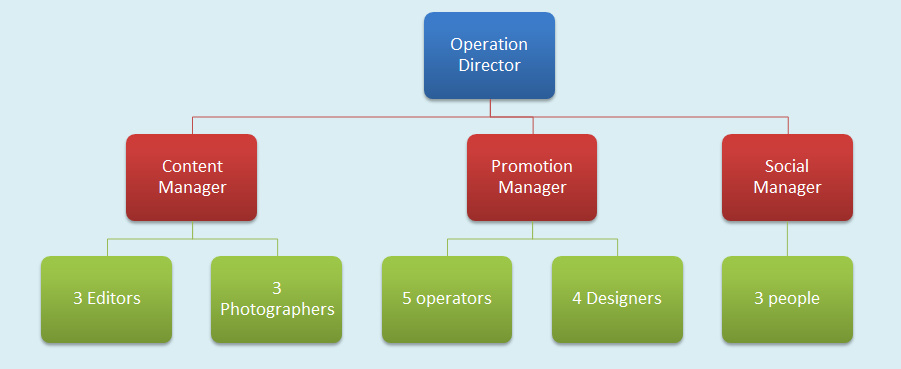
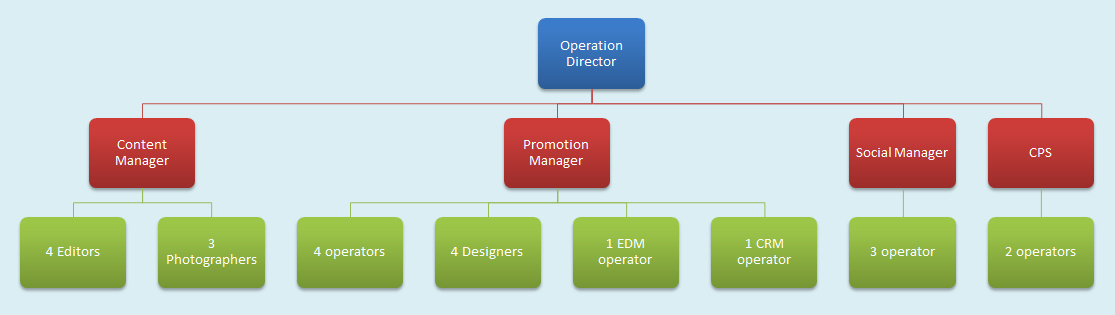
第一版2013计划完成

Changed region(s): [[0.0622, 0.0286, 0.9945, 0.6571], [0.0, 0.6857, 0.9945, 0.9429]]

diff --git a/introduction/suggestion.html b/introduction/suggestion.html
@@ -7,7 +7,7 @@
     <meta charset="utf-8">
     <meta http-equiv="X-UA-Compatible" content="IE=edge,chrome=1">
 
-    <title>建议</title>
+    <title>Suggestion</title>
 
     <meta name="description" content="A jQuery library for modern HTML presentations">
     <meta name="author" content="Caleb Troughton">
@@ -35,11 +35,13 @@
 
 <!-- Begin slides -->
 <section class="slide" id="title-slide">
-    <h1>产品开发和运营方向</h1>
+    <h2>产品开发和运营方向</h2>
+    <h2>Product development & Opearation</h2>
 </section>
 
+
 <section class="slide" id="t1">
-    <h2>One pic from 1haodian</h2>
+    <h2>One pic from 1haodian.com</h2>
     <ul>
         <li>
             <h3>B2C Bussness Sections</h3>
@@ -48,19 +50,20 @@
     </ul>
 </section>
 
+
 <section class="slide" id="t2">
     <h2>Which part is easy to do?</h2>
 
     <ul>
-        <li class="slide" id="extensions-goto">
+        <li class="slide" id="extensionsgoto">
             <strong>Delivery & Storage</strong>: Hardest! &nbsp;&nbsp; Need lots of money, people and time to build.
         </li>
 
-        <li class="slide" id="extensions-hash">
+        <li class="slide" id="extensionshash">
             <strong>Supply & Procurement</strong>: Hard! &nbsp;&nbsp; Depand on our sales volume.
         </li>
 
-        <li class="slide" id="extensions-menu">
+        <li class="slide" id="extensionsmenu">
             <strong>IT & System</strong>: Normal! &nbsp;&nbsp; Need Good people and time.
         </li>
 
@@ -70,22 +73,41 @@
     </ul>
 </section>
 
-<section class="slide" id="elements-blockquotes">
+
+<section class="slide" id="OperationPlan">
+    <h2>Operation Plan</h2>
+    <p><img src="op.jpg"></p>
+
+    <h2>People organization</h2>
+    <p><img src="op2.jpg"></p>
+</section>
+
+<section class="slide" id="OperationPlan2">
+    <h2>Now Operation Is the quick way to improve our compamy</h2>
+
+    <h2>Operation need more people, that is the way taobao does success.</h2>
+
+    <h2>But operation is not the key competitiveness, because easy to copy.</h2>
+
+</section>
+
+
+<section class="slide" id="t5">
     <h2>Why IT & System is the core ? </h2>
     <blockquote cite="http://news.xinhuanet.com/newmedia/2006-08/22/content_4991822.htm">
         <p>在现实世界的商店最有力的武器就是地段，地段，地段；而对于网上经营来说最重要的是技术，技术，技术。</p>
-        <p><cite>亚马逊掌门人杰夫·贝佐斯 Jeff Bezos</cite></p>
+        <p><cite>亚马逊掌门人杰夫·贝佐斯 Amazon CEO: Jeff Bezos</cite></p>
     </blockquote>
 
 </section>
 
 
-<section class="slide" id="t4">
+<section class="slide" id="t6">
     <h2>Why IT & System is executable ? </h2>
 
     <ul>
         <li class="slide" id="extensions-goto">
-            <strong>Cost:</strong>  Only people.
+            <strong>Cost:</strong>  Only people and NOT need much.
         </li>
 
         <li class="slide" id="extensions-hash">
@@ -96,56 +118,102 @@
             Operation can be improved fast, So do our competitors. <strong>But IT System is hard to copy.</strong>
         </li>
 
+        <li class="slide" id="extensions-summary">
+           <strong>Build a software company in China is really lucrative business.</strong>
+        </li>
+
+        <li class="slide" id="extensions-summaryadd">
+            <strong>And IT is not just a support department, it also can be earn money in the future.</strong>
+        </li>
+
     </ul>
 </section>
 
-<section class="slide" id="themes">
-    <h2>Operation Plan</h2>
-    <p><img src="op.jpg"></p>
 
-    <h2>People organization</h2>
-    <p><img src="op2.jpg"></p>
+<section class="slide" id="ProductPlan">
+    <h2>Product Plan - Foundation</h2>
+    <p><img src="productplan1.jpg"></p>
+
+    <h2>Product Plan - Application</h2>
+    <p><img src="productplan2.jpg"></p>
+</section>
+
+<section class="slide" id="ProductPlanPeople">
+    <h2>Product Plan People organization</h2>
+    <p><img src="productplan3.jpg"></p>
+
+</section>
+
+<section class="slide" id="ProductPlanFocus">
+    <h2>Product Plan 2013 Focus</h2>
+    <p><img src="productplanfocus.jpg"></p>
+
+</section>
+
+<section class="slide" id="OperationCost">
+    <h2>Operation Team Cost per Year</h2>
+    <pre><code>&lt;&lt; Need Person : &quot;27&quot; <br/ >Total Cost : &quot;27 * 6000RMB * 12Month = 1,944,000&quot; &gt;&gt;</code></pre>
+
+    <h2>Product Team Cost per Year</h2>
+    <pre><code>&lt;&lt; Need Person : &quot;12&quot; <br/ >Total Cost : &quot;12 * 8000RMB * 12Month = 1,152,000&quot; &gt;&gt;</code></pre>
+    <pre><code>Note: With Chinese persol tax, almost need double salary cost</code></pre>
+
 </section>
 
 
-<section class="slide" id="nested">
-    <h2>Nested Slides</h2>
-    <p>That last slide had a few steps.  To create substeps in slides, just nest them:</p>
-	<pre><code>&lt;section class=&quot;slide&quot;&gt;
-        &lt;h2&gt;Extensions&lt;/h2&gt;
-        &lt;p&gt;Core gives you basic slide functionality...&lt;/p&gt;
-        &lt;ul&gt;
-        &lt;li class=&quot;slide&quot;&gt;
-        &lt;h3&gt;deck.goto&lt;/h3&gt;
-        &lt;p&gt;Adds a shortcut key to jump to any slide number...&lt;/p&gt;
-        &lt;/li&gt;
-        &lt;li class=&quot;slide&quot;&gt;...&lt;/li&gt;
-        &lt;li class=&quot;slide&quot;&gt;...&lt;/li&gt;
-        &lt;li class=&quot;slide&quot;&gt;...&lt;/li&gt;
-        &lt;/ul&gt;
-        &lt;/section&gt;</code></pre>
+
+<section class="slide" id="onemorethings">
+    <h2>One More Things</h2>
+    <ol>
+        <li class="slide" id="extensions-1">
+            <strong>If we don't have much money and resource, I prefer do like this</strong>
+        </li>
+
+        <li class="slide" id="ops1">
+            <img src="ops3.jpg">
+        </li>
+
+        <li class="slide" id="ops2">
+            <img src="ops2.jpg">
+        </li>
+
+        <li class="slide" id="ops3">
+            <img src="ops1.jpg">
+        </li>
+    </ol>
 </section>
 
-<section class="slide" id="elements-images">
-    <h2>Other Elements: Images</h2>
-    <img src="http://placekitten.com/600/375" alt="Kitties">
-    <pre><code>&lt;img src=&quot;http://placekitten.com/600/375&quot; alt=&quot;Kitties&quot;&gt;</code></pre>
-</section>
+<section class="slide" id="onemorethings2">
+    <h2>One More Things</h2>
+    <ol>
+        <li class="slide" id="extensions-3">
+            <strong>Not do like this</strong>
+        </li>
 
+        <li class="slide" id="ops4">
+            <img src="ops4.jpg">
+        </li>
 
+        <li class="slide" id="ops5">
+            <img src="ops5.jpg">
+        </li>
 
-<section class="slide" id="elements-videos">
-    <h2>Other Elements: Video Embeds</h2>
-    <p>Embed videos from your favorite online video service or with an HTML5 video&nbsp;element.</p>
-
-    <iframe src="http://player.vimeo.com/video/1063136?title=0&amp;byline=0&amp;portrait=0" width="400" height="225" frameborder="0"></iframe>
-
-    <pre><code>&lt;iframe src=&quot;http://player.vimeo.com/video/1063136?title=0&amp;amp;byline=0&amp;amp;portrait=0&quot; width=&quot;400&quot; height=&quot;225&quot; frameborder=&quot;0&quot;&gt;&lt;/iframe&gt;</code></pre>
+        <li class="slide" id="ops6">
+            <img src="ops6.jpg">
+        </li>
+    </ol>
 </section>
 
 <section class="slide" id="digging-deeper">
-    <h2>Digging Deeper</h2>
-    <p>If you want to learn about making your own themes, extending deck.js, and more, check out the&nbsp;<a href="../docs/">documentation</a>.</p>
+    <h2>One More Things : Digging Deeper</h2>
+    <p>Because it is better to lose money than <strong>to lose time and focus</strong></p>
+    <p>中小企业做预算，如果money不够，就集中力量办大事吧。将资源集中在1-2个媒体，好好深挖定能见水。切忌贪大求全，每个媒体铺一点最后什么都没获得。</p>
+    <p><img src="dig.jpg"></p>
+
+</section>
+
+<section class="slide" id="Thanks">
+    <h1>Thanks</h1>
 </section>
 
 <!-- deck.navigation snippet -->
@@ -155,7 +223,7 @@
 <!-- deck.status snippet -->
 <p class="deck-status">
     <span class="deck-status-current"></span>
-    /
+
     <span class="deck-status-total"></span>
 </p>
 
